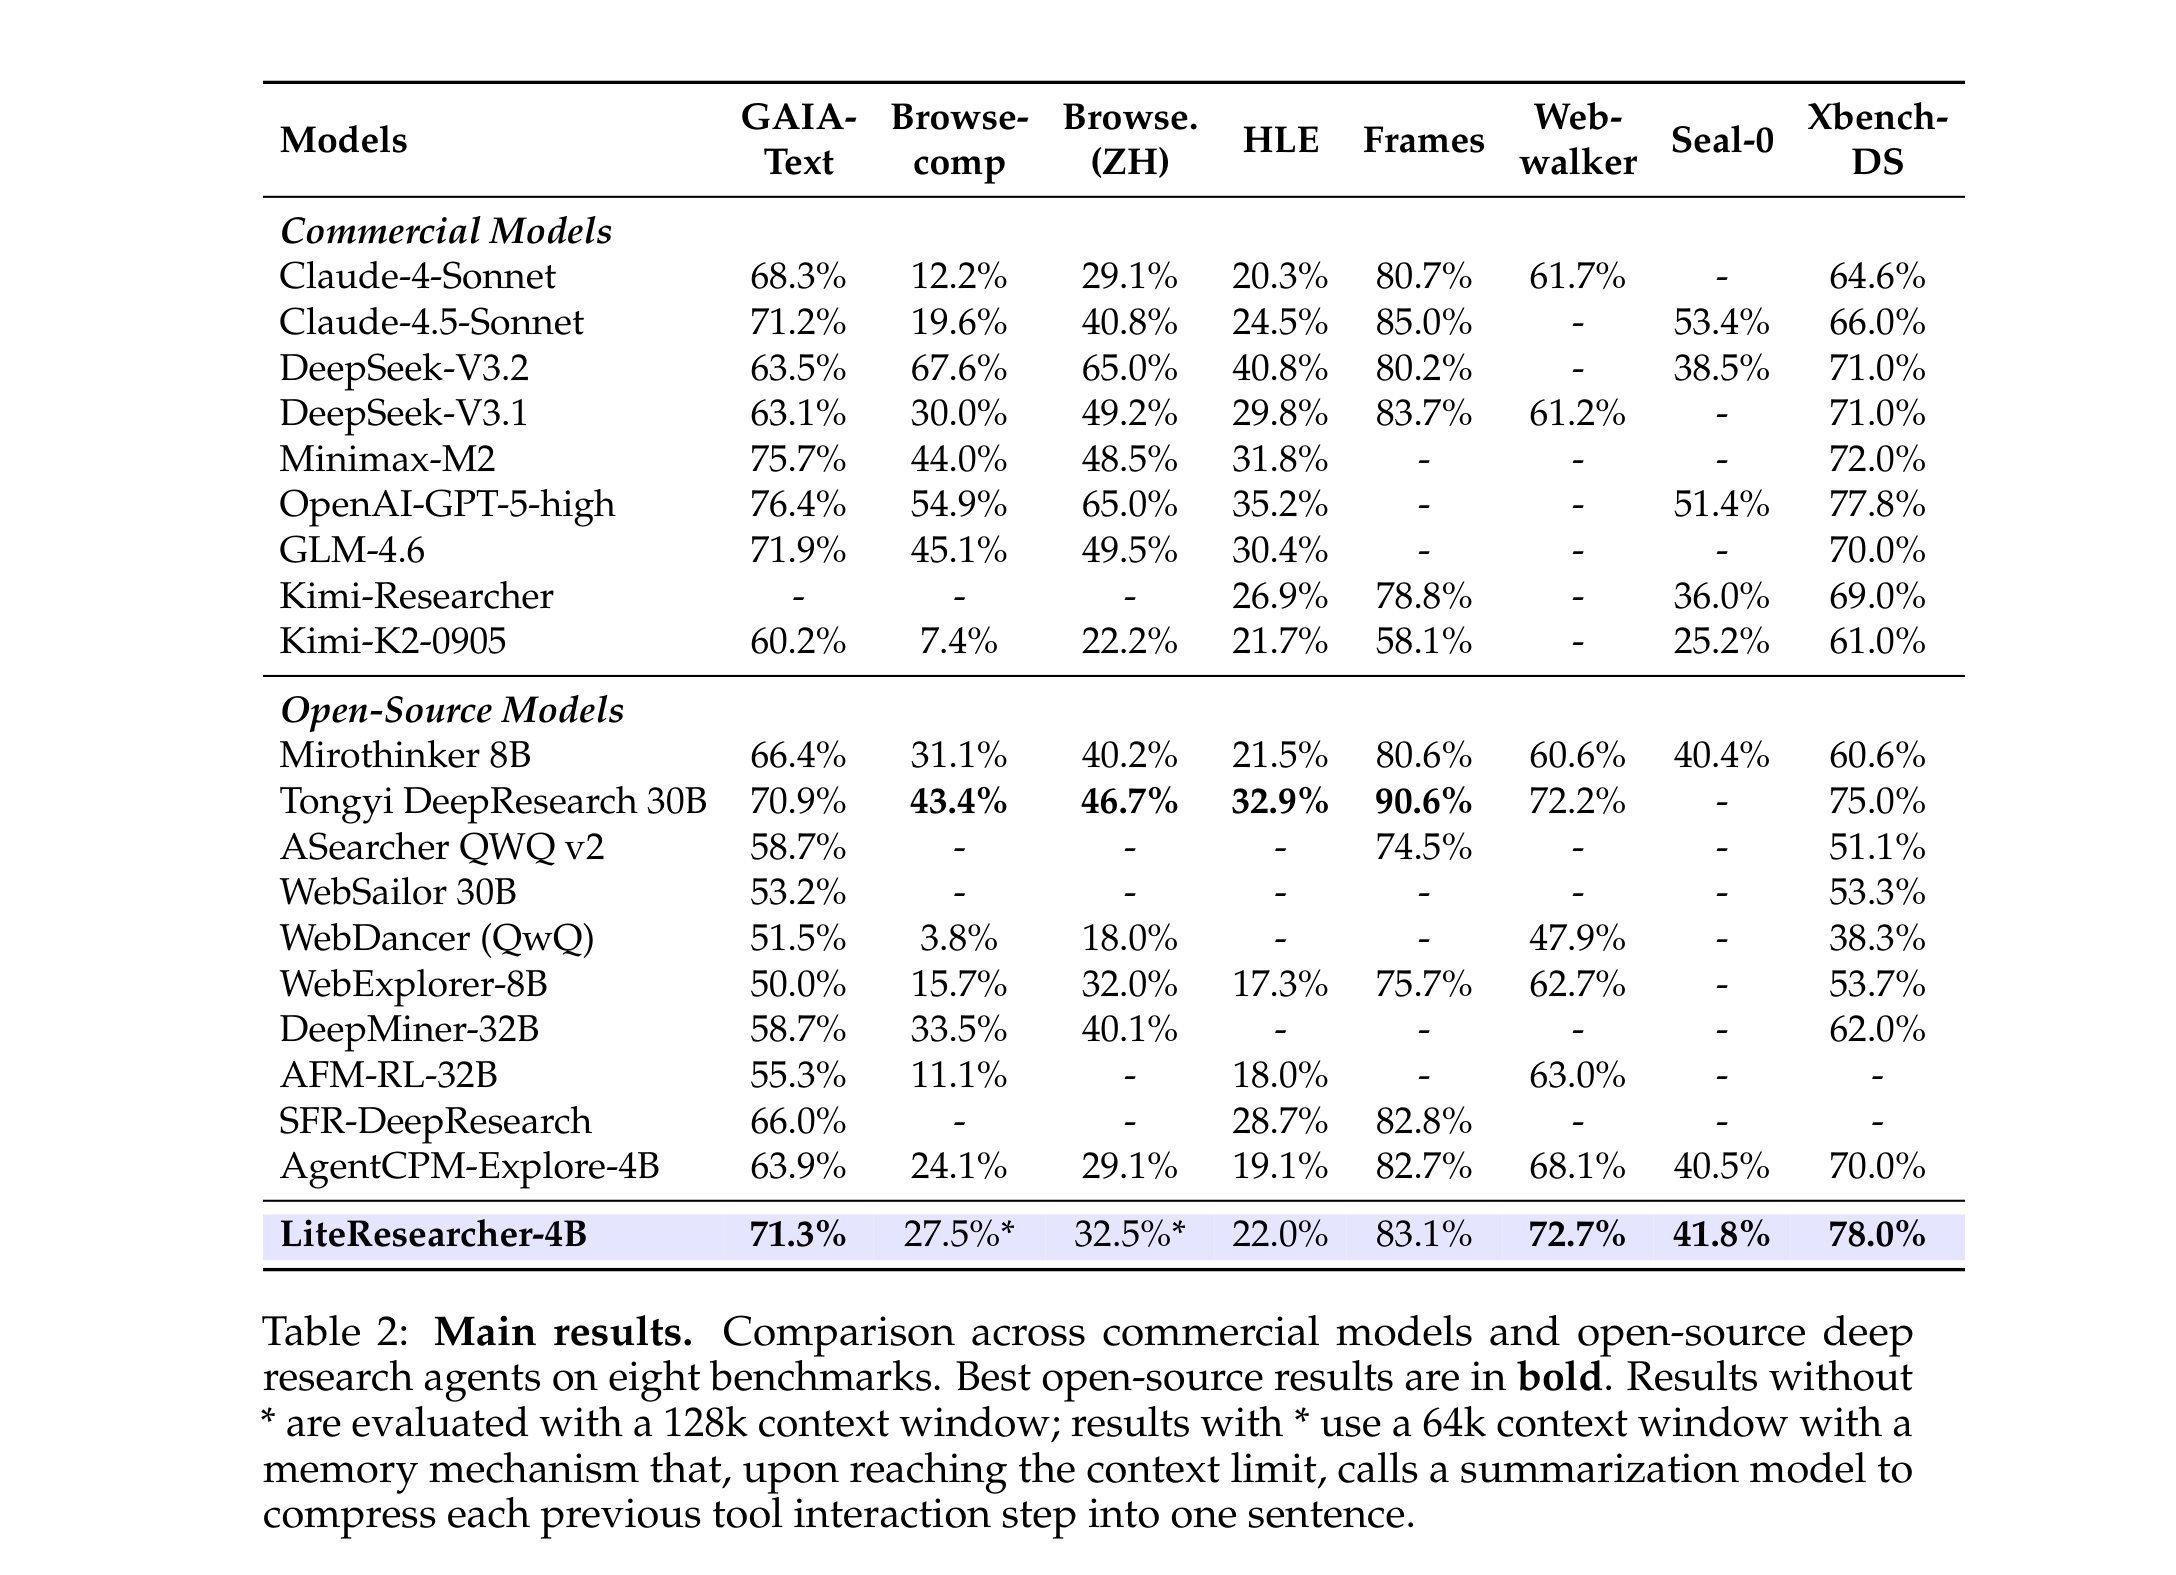
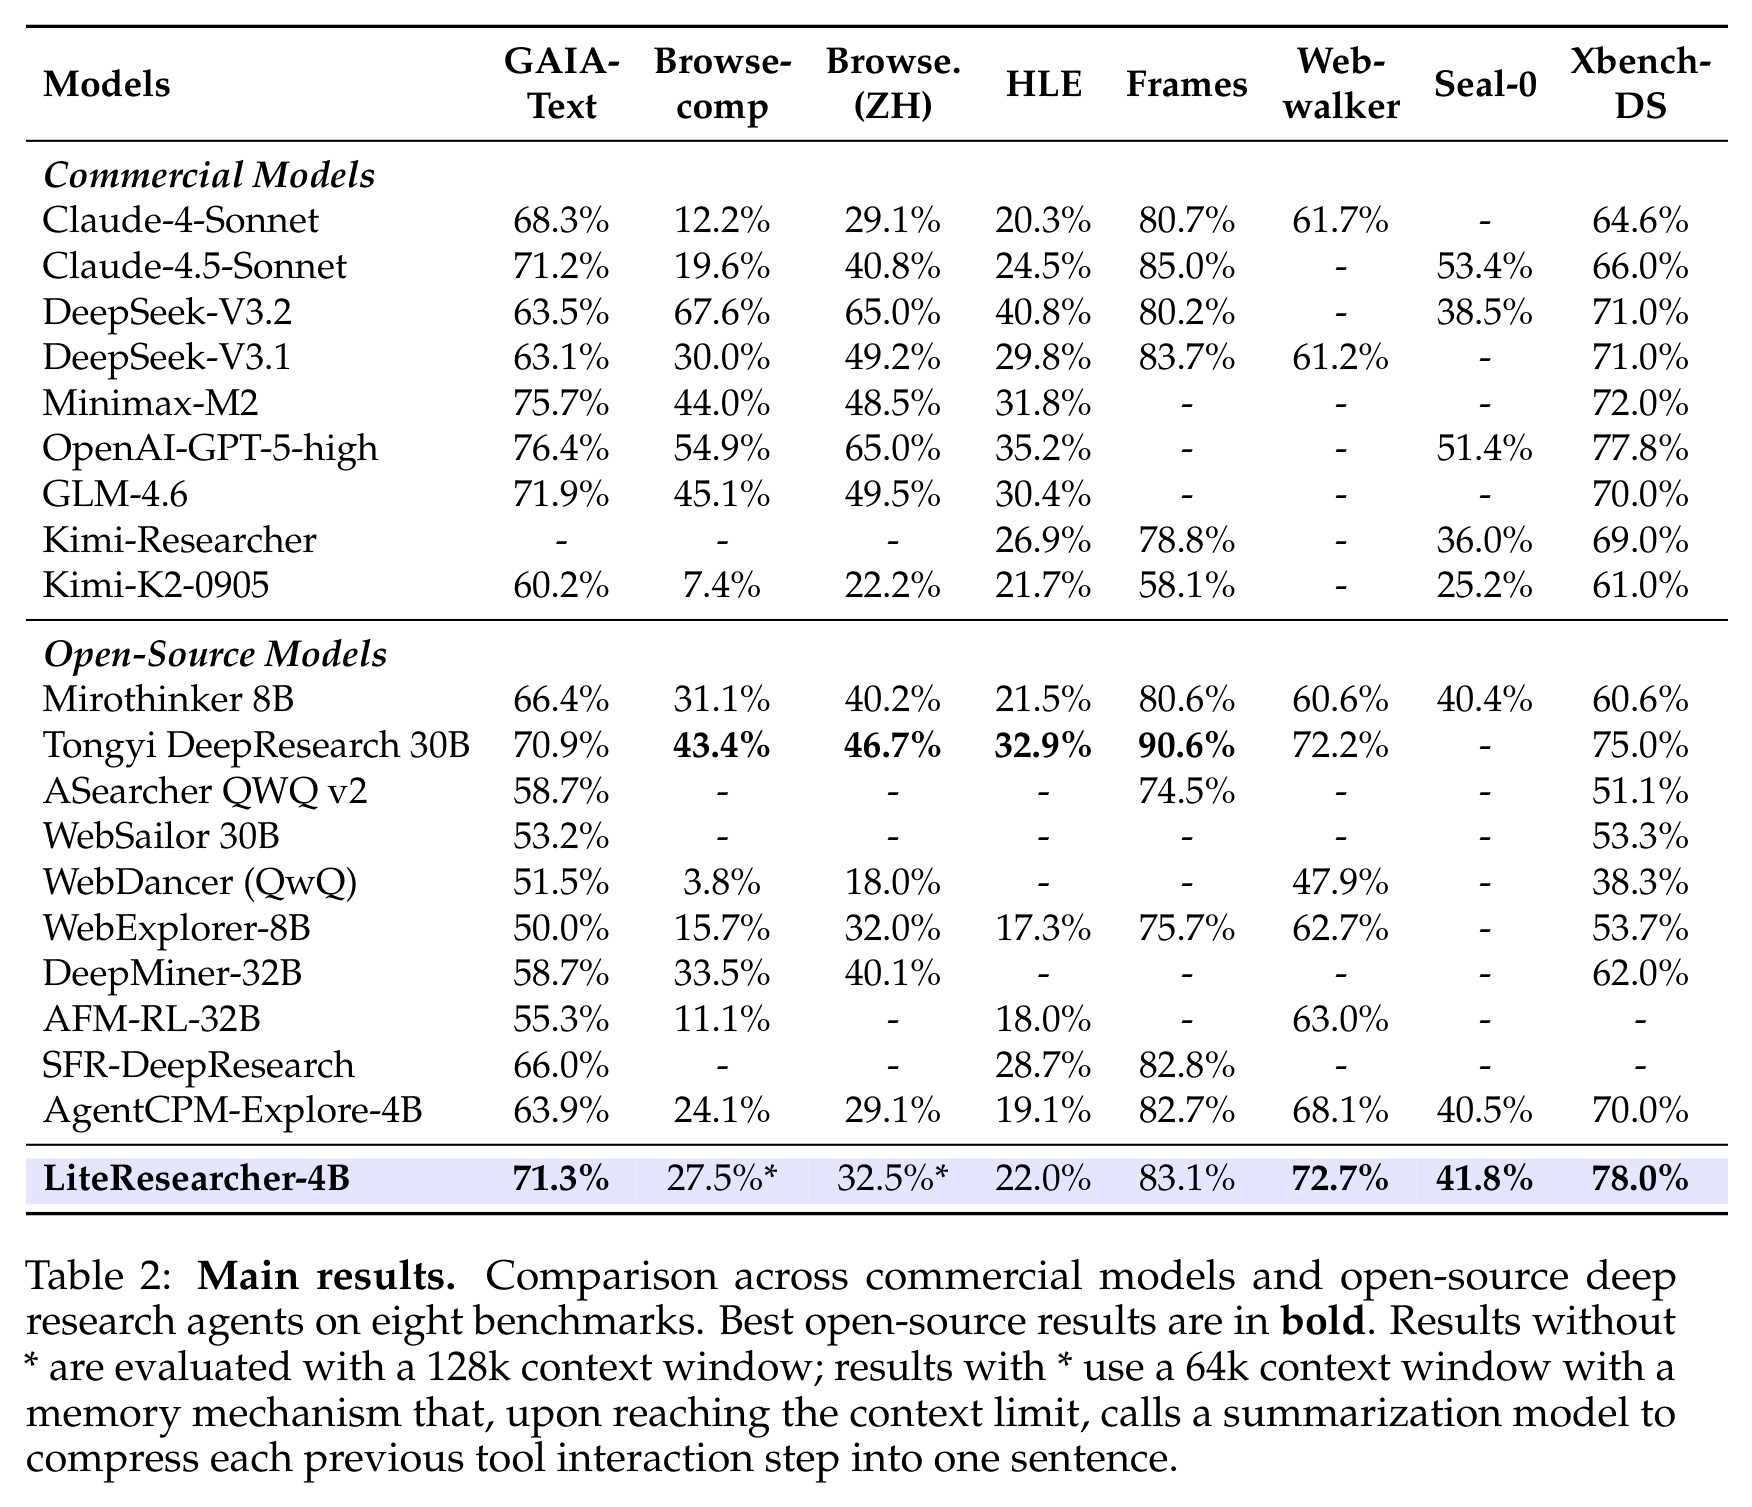
Enlarge README results table

diff --git a/README.md b/README.md
@@ -17,10 +17,8 @@
 ## Results
 
 <div align="center">
-<img src="figures/table_main_results.png" width="95%">
+<img src="figures/table_main_results.png" width="100%">
 </div>
-
-Table 2 from the paper compares LiteResearcher-4B against commercial models and open-source deep research agents across eight benchmarks. Best open-source results are in **bold**. Results with * use a 64k context window with a memory mechanism.
 
 ## Method Overview
 
